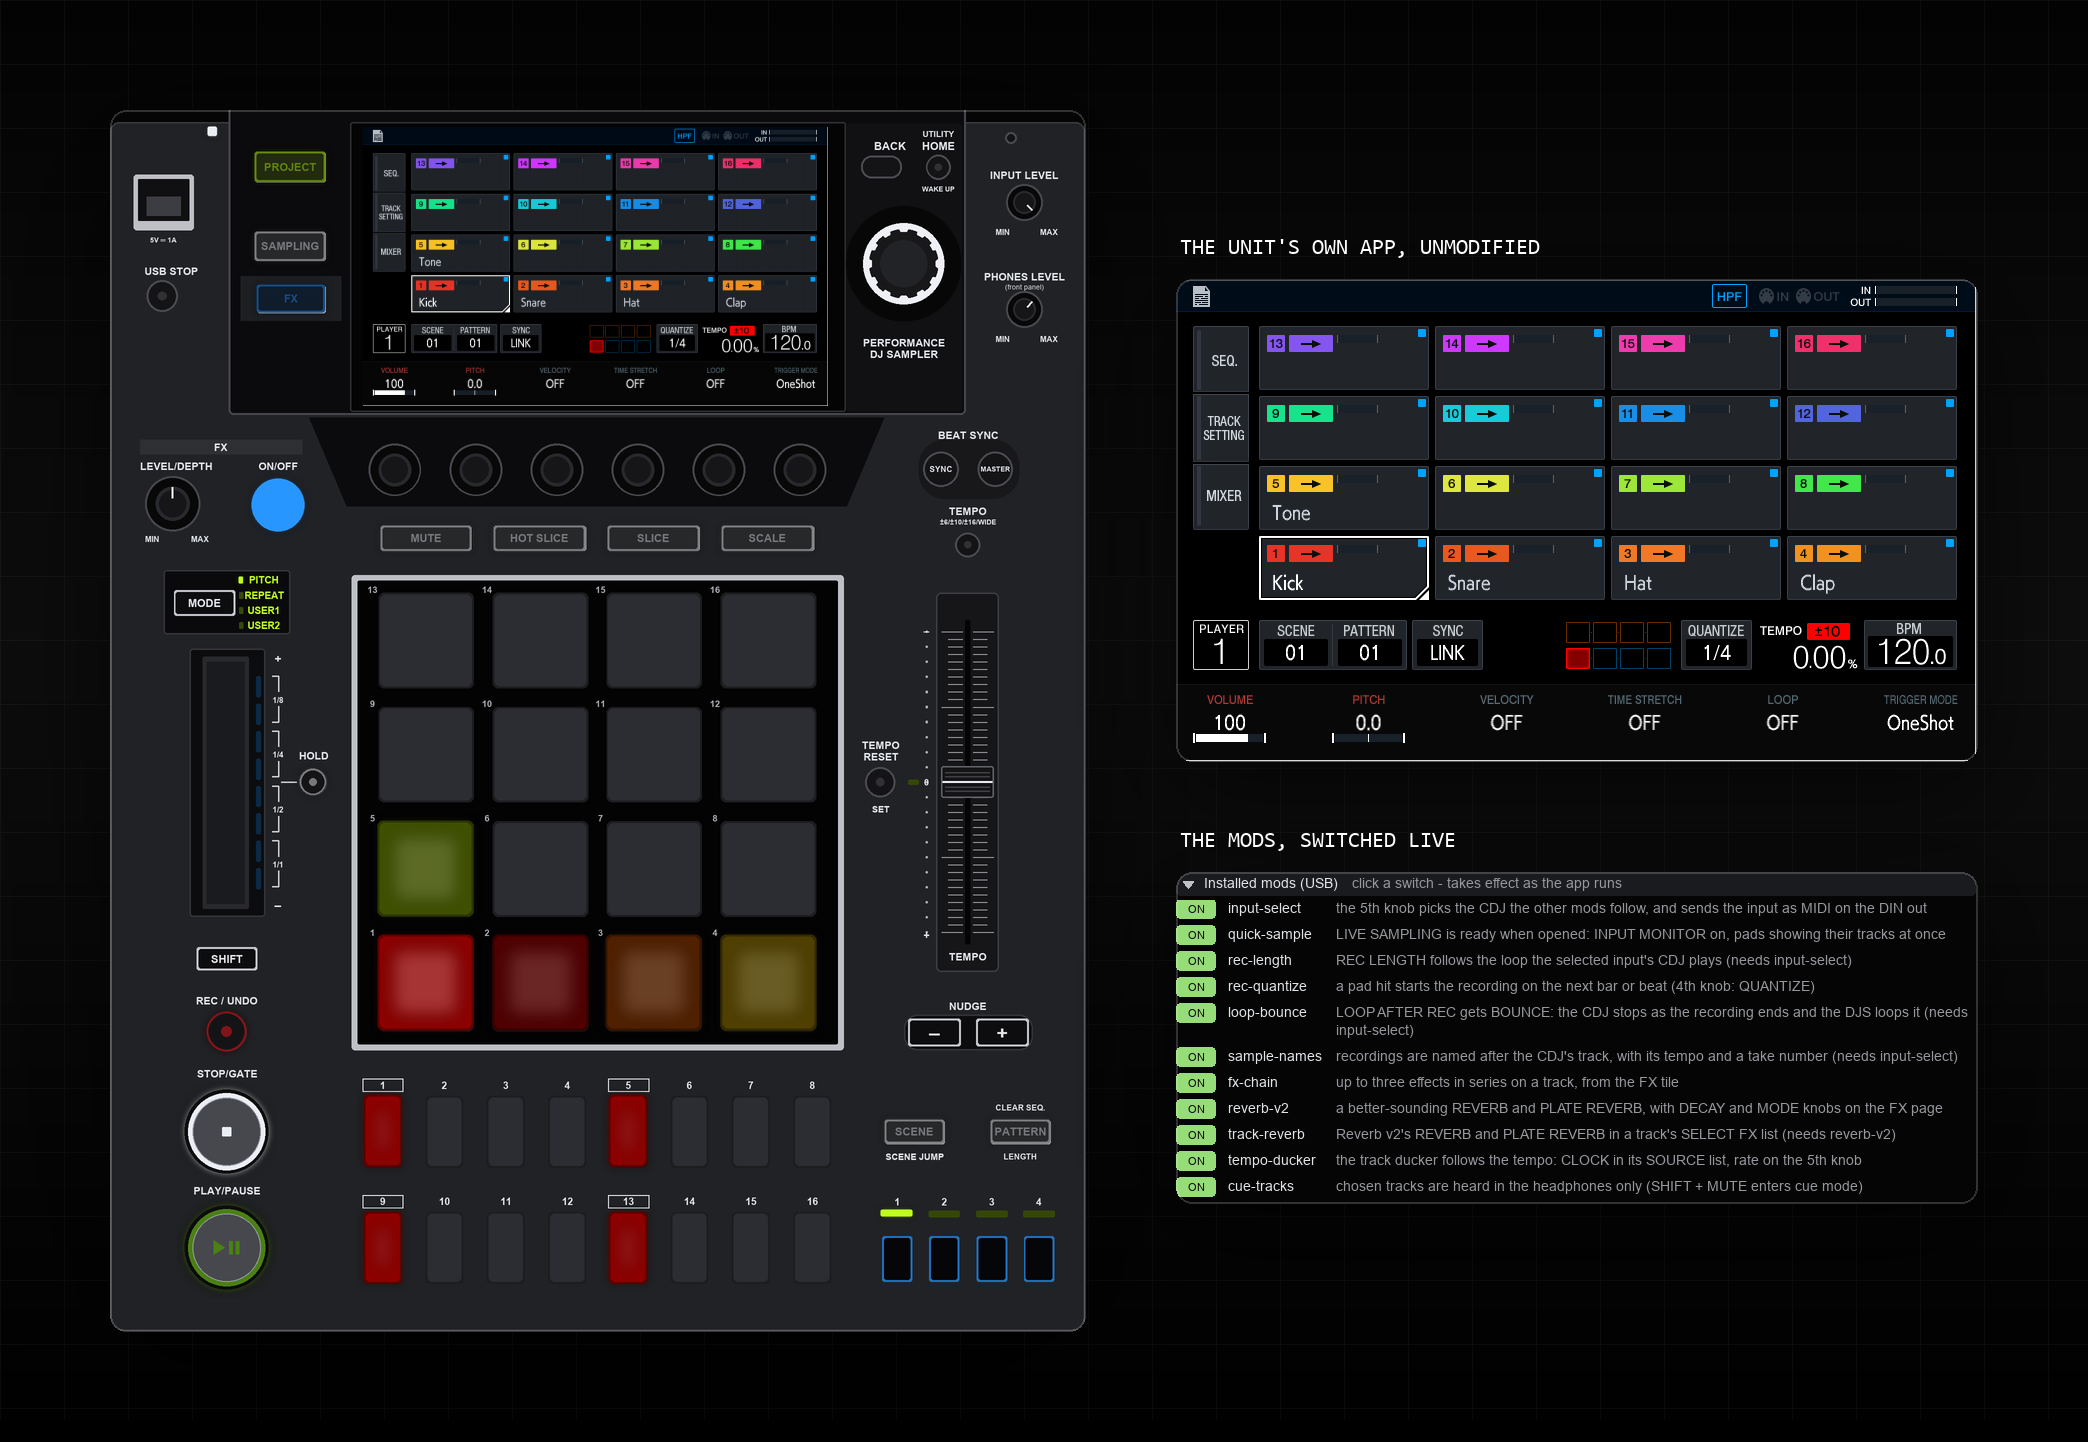
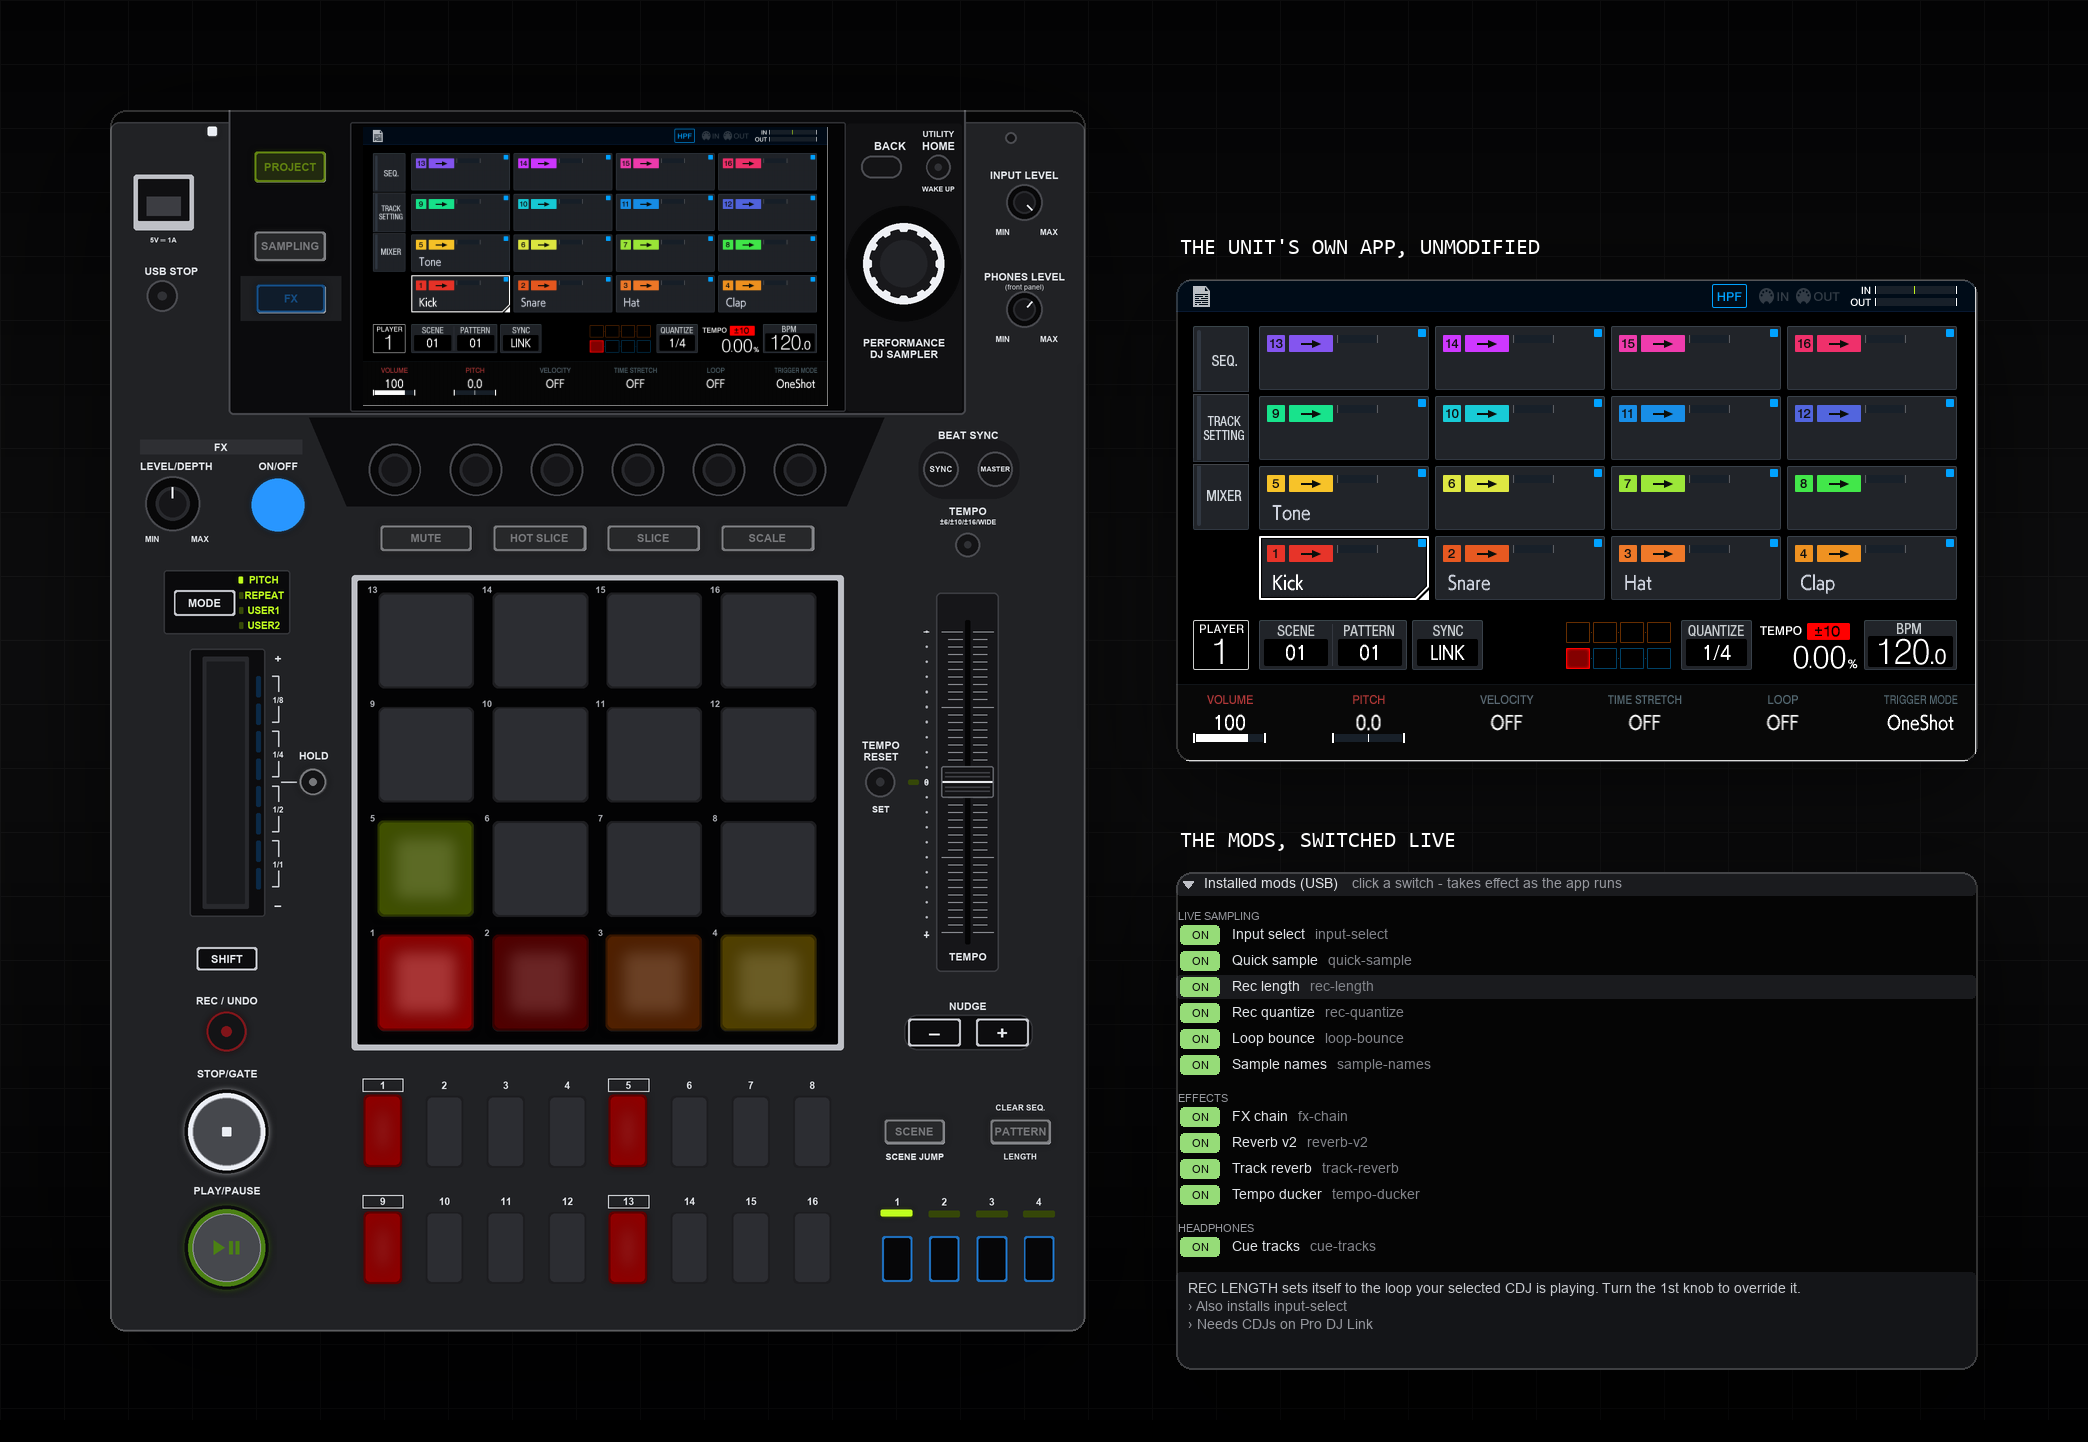
List the mods in the deck as the website does
Group them, show each by its title and key, and show the website's own
text for the mod under the mouse, in place of the short line the
settings file carries. The hero picture shows the new list.

Changed region(s): [[0.5603, 0.6241, 0.965, 0.9362]]

diff --git a/app/virtual_djs.py b/app/virtual_djs.py
@@ -56,6 +56,7 @@ DOCK_PAD = 16
 STATUS_H = 26
 ROW = 26                                 # a row of the side panel's lists
 HEAD = 28                                # a section's header
+DETAIL_H = 18 * 5 + 12                   # what the mods' list shows of the mod the mouse is on: its page text
 FPS = 60
 MIN_HOLD = 120                           # ms a clicked key or pad stays down at least
 BOOT_S = 24                              # about how long the app takes to draw its first screen
@@ -104,6 +105,8 @@ class Deck:
         self.link = link
         self.mods = mods or Mods(None)   # what a patch on the USB drive carries
         self.mod_rects = []              # (where, name): the switches drawn in the side panel
+        self.mod_hover = None            # the mod the mouse was last on in the list (its text shows under it)
+        self.hover_pinned = False        # --hover: the mod shown is the one asked for, whatever the mouse does
         self.fold = {"mods": False, "help": False}      # the side panel's two sections: folded or not
         self.scroll = {"mods": 0, "help": 0}            # how far each is scrolled, in pixels
         self.fold_rects = []             # (where, section): the headers
@@ -651,7 +654,7 @@ class Deck:
         sections = []
         if self.mods.items:
             sections.append(("mods", "Installed mods (USB)", "click a switch - takes effect as the app runs",
-                             sum(h for _, h in self.mod_rows(width - 12)), self.draw_mods_body))
+                             sum(h for _, _, h in self.mod_rows()) + DETAIL_H + 8, self.draw_mods_body))
         sections.append(("help", "Controls", "", len(HELP) * 24 + 4, self.draw_help_body))
         free = bottom - y - HEAD * len(sections) - 8 * (len(sections) - 1)
         views = {}
@@ -659,7 +662,7 @@ class Deck:
         if len(open_) == 1:
             views[open_[0][0]] = min(open_[0][3], max(0, free))
         elif len(open_) == 2:
-            first = min(open_[0][3], max(free // 2, free - open_[1][3]))
+            first = min(open_[0][3], max(free // 2, free - open_[1][3], free - 130))   # the second keeps five rows
             views[open_[0][0]] = max(0, first)
             views[open_[1][0]] = max(0, min(open_[1][3], free - first))
         for key, title, hint, content, body in sections:
@@ -680,6 +683,9 @@ class Deck:
                 y += 8
                 continue
             view = views.get(key, 0)
+            extra = DETAIL_H + 8 if key == "mods" else 0     # the mods' list has the mod's text under it, not scrolled
+            content -= extra
+            view_all, view = view, max(0, view - extra)
             body_rect = pygame.Rect(x, y, width, view)
             most = max(0, content - view)
             self.scroll[key] = min(self.scroll[key], most)
@@ -687,6 +693,8 @@ class Deck:
             body(x, y - self.scroll[key], width - (12 if most else 0), body_rect)
             win.set_clip(None)
             self.body_rects[key] = body_rect
+            if key == "mods":
+                self.draw_mod_detail(x, y + view + 8, width)
             if most:
                 track = pygame.Rect(x + width - 8, y, 8, view)
                 size = max(24, view * view // content)
@@ -695,49 +703,94 @@ class Deck:
                 pygame.draw.rect(win, (110, 112, 120) if self.thumb and self.thumb[0] == key else (80, 82, 90), thumb,
                                  border_radius=4)
                 self.track_rects[key] = (track, thumb, most)
-            y += view + 8
+            y += view_all + 8
 
-    def mod_names_w(self):
-        """The width of the widest name: the descriptions all begin this far in."""
-        return max((self.font.size(name)[0] for name, _, _ in self.mods.items), default=0)
-
-    def mod_rows(self, width):
-        """Each mod's row: the lines its description wraps to in `width`, and the row's height."""
-        rows = []
-        room = max(80, width - 52 - self.mod_names_w() - 14)
-        for name, on, about in self.mods.items:
-            lines, line = [], ""
-            for word in about.split():
-                if line and self.font.size(line + " " + word)[0] > room:
-                    lines.append(line)
-                    line = word
-                else:
-                    line = (line + " " + word) if line else word
-            lines.append(line)
-            rows.append((lines, max(ROW, 18 * len(lines) + 8)))
+    def mod_rows(self):
+        """The list's rows, top to bottom: ("group", the heading, height) where the group changes, ("mod", the mod, height)."""
+        rows, group = [], None
+        for mod in self.mods.items:
+            if mod["group"] and mod["group"] != group:
+                group = mod["group"]
+                rows.append(("group", group, ROW))
+            rows.append(("mod", mod, ROW))
         return rows
 
+    def wrap(self, text, width, limit):
+        """`text` in lines of at most `width` pixels, at most `limit` of them (the last ends in ... if there is more)."""
+        lines, line = [], ""
+        for word in text.split():
+            if line and self.font.size(line + " " + word)[0] > width:
+                lines.append(line)
+                line = word
+            else:
+                line = (line + " " + word) if line else word
+        lines.append(line)
+        if len(lines) > limit:
+            lines = lines[:limit]
+            while lines[-1] and self.font.size(lines[-1] + "...")[0] > width:
+                lines[-1] = lines[-1].rsplit(" ", 1)[0] if " " in lines[-1] else lines[-1][:-1]
+            lines[-1] += "..."
+        return lines
+
     def draw_mods_body(self, x, y, width, clip):
-        """The switches, one under the other, a description wrapped to as many lines as it needs; a switch can be
-        clicked where it is drawn."""
+        """The mods, grouped as the website groups them: a switch, the title and the key of each. The mouse on a row shows
+        the mod's text under the list; a switch (and the title beside it) can be clicked where it is drawn."""
         win = self.win
-        rows = self.mod_rows(width)
-        about_x = x + 52 + self.mod_names_w() + 14
-        for (name, on, about), (lines, height) in zip(self.mods.items, rows):
+        mouse = pygame.mouse.get_pos()
+        for kind, what, height in self.mod_rows():
             if y + height >= clip.top and y <= clip.bottom:
-                t = self.small.render("ON" if on else "OFF", True, (10, 10, 10) if on else (150, 152, 158))
-                r = pygame.Rect(x, y - 1, 40, 20)
-                pygame.draw.rect(win, (150, 220, 120) if on else (40, 41, 45), r, border_radius=4)
-                win.blit(t, t.get_rect(center=r.center))
-                t = self.font.render(name, True, (225, 228, 232))
-                win.blit(t, (x + 52, y))
-                for i, text in enumerate(lines):
-                    t2 = self.font.render(text, True, (150, 152, 158))
-                    win.blit(t2, (about_x, y + 18 * i))
-                hit = pygame.Rect(x, y - 3, 52 + t.get_width(), 24).clip(clip)
-                if hit.width and hit.height:
-                    self.mod_rects.append((hit, name))
+                if kind == "group":
+                    t = self.small.render(what.upper(), True, (150, 152, 158))
+                    win.blit(t, (x + 2, y + 10))
+                else:
+                    mod = what
+                    row = pygame.Rect(x, y - 3, width, ROW - 2)
+                    if row.collidepoint(mouse) and clip.collidepoint(mouse) and not self.hover_pinned:
+                        self.mod_hover = mod["name"]
+                    if self.mod_hover == mod["name"]:
+                        pygame.draw.rect(win, (26, 27, 30), row, border_radius=4)
+                    on = mod["on"]
+                    t = self.small.render("ON" if on else "OFF", True, (10, 10, 10) if on else (150, 152, 158))
+                    r = pygame.Rect(x + 4, y - 1, 40, 20)
+                    pygame.draw.rect(win, (150, 220, 120) if on else (40, 41, 45), r, border_radius=4)
+                    win.blit(t, t.get_rect(center=r.center))
+                    t = self.font.render(mod["title"], True, (225, 228, 232))
+                    win.blit(t, (x + 56, y))
+                    key = self.font.render(mod["name"], True, (130, 132, 138))
+                    win.blit(key, (x + 56 + t.get_width() + 10, y))
+                    if mod["status"] in ("beta", "wip"):
+                        tag = self.small.render("BETA" if mod["status"] == "beta" else "WIP", True, (150, 152, 158))
+                        tx = x + 56 + t.get_width() + 20 + key.get_width()
+                        pygame.draw.rect(win, (110, 112, 120), (tx, y + 1, tag.get_width() + 10, 16), 1, border_radius=3)
+                        win.blit(tag, (tx + 5, y + 3))
+                    hit = pygame.Rect(x, y - 3, 56 + t.get_width(), 24).clip(clip)
+                    if hit.width and hit.height:
+                        self.mod_rects.append((hit, mod["name"]))
             y += height
+
+    def draw_mod_detail(self, x, y, width):
+        """The text of the mod the mouse was last on: the website's own words, then what it needs."""
+        win = self.win
+        box = pygame.Rect(x, y, width, DETAIL_H)
+        pygame.draw.rect(win, (20, 21, 24), box, border_radius=4)
+        mod = next((m for m in self.mods.items if m["name"] == self.mod_hover), None)
+        if not mod:
+            t = self.font.render("Point at a mod to read what it does.", True, (110, 112, 120))
+            win.blit(t, (x + 12, y + 10))
+            return
+        room = width - 24
+        lines = [(l, (200, 203, 208)) for l in self.wrap(mod["page"], room, 3)]
+        notes = []
+        if mod["status"] == "beta":
+            notes.append("Still being tested")
+        if mod["requires"]:
+            notes.append("Also installs " + ", ".join(mod["requires"]))
+        if mod["needs"]:
+            notes.append(mod["needs"])
+        for note in notes[:5 - len(lines)]:
+            lines.append((self.wrap("› " + note, room, 1)[0], (150, 152, 158)))
+        for i, (text, color) in enumerate(lines):
+            win.blit(self.font.render(text, True, color), (x + 12, y + 8 + 18 * i))
 
     def draw_help_body(self, x, y, width, clip):
         win = self.win
@@ -820,6 +873,8 @@ def main():
                     help="the emulator's USB folder, to show and switch the mods of a patch on it")
     ap.add_argument("--modlist", metavar="FILE",
                     help="the list of mods the patch carries (modlist.txt in the folder the emulator opened it in)")
+    ap.add_argument("--hover", metavar="MOD",
+                    help="start with this mod's text shown under the list of mods (for a picture)")
     ap.add_argument("--snapshot", metavar="PNG",
                     help="draw one frame after a few seconds, save it and quit")
     args = ap.parse_args()
@@ -852,6 +907,8 @@ def main():
         except Exception as e:           # no recording device, or it is refused
             print(f"no input: {e}", file=sys.stderr)
     deck = Deck(link, (w, h), outputs, recorder, listen, Mods(args.usb, args.modlist))
+    deck.mod_hover = args.hover
+    deck.hover_pinned = bool(args.hover)
     if args.compact:
         deck.show_dock = False
         deck.layout()

diff --git a/app/mods.py b/app/mods.py
@@ -2,7 +2,7 @@
 """The mods a patch carries, and which of them are on.
 
 A patch that carries mods (the djs1000-mods project) holds the list of them, modlist.txt (JSON: a name, a line on
-what it does and a status for each), next to its autoexec.sh; the emulator opens the patch at each start and the
+what it does, a title, a group, the page text, what it needs and a status for each), next to its autoexec.sh; the emulator opens the patch at each start and the
 list is there, in the run folder. That is the one list: this does not know any mod by name. Which of them are on
 is djs1000-mods.txt on the USB drive, a line a mod:
 
@@ -26,7 +26,7 @@ class Mods:
     def __init__(self, folder, modlist=None):
         self.path = os.path.join(folder, FILE) if folder else None
         self.modlist = modlist
-        self.items = []                  # (name, on, what it does)
+        self.items = []                  # a dict for each mod: name, on, title, group, page, needs, requires, status
         self._seen = None
         if self.path and self.modlist:
             threading.Thread(target=self._watch, daemon=True).start()
@@ -67,10 +67,18 @@ class Mods:
         items = []
         for mod in mods:
             wip = mod.get("status") == "wip"
-            about = mod.get("about", "") + (" (work in progress)" if wip else " (beta)" if mod.get("status") == "beta" else "")
-            if mod.get("requires"):
-                about += " (needs " + ", ".join(mod["requires"]) + ")"
-            items.append((mod["name"], state.get(mod["name"], not wip), about))
+            items.append({
+                "name": mod["name"],
+                "on": state.get(mod["name"], not wip),
+                # the website's own words (title, page, group); a patch from before them has only the short clause
+                "title": mod.get("title") or mod["name"],
+                "group": mod.get("group", ""),
+                "page": mod.get("page") or mod.get("about", ""),
+                "needs": mod.get("needs", ""),
+                "requires": mod.get("requires", []),
+                "status": mod.get("status", ""),
+                "settings": len(mod.get("settings", [])),
+            })
         self._seen, self.items = seen, items
 
     def _stat_cfg(self):
@@ -81,7 +89,7 @@ class Mods:
 
     def toggle(self, name):
         """Switches the mod on or off in the file (a line is added if there is none). False if it could not."""
-        on_now = dict((n, on) for n, on, _ in self.items).get(name)
+        on_now = dict((m["name"], m["on"]) for m in self.items).get(name)
         if on_now is None:
             return False
         try:
